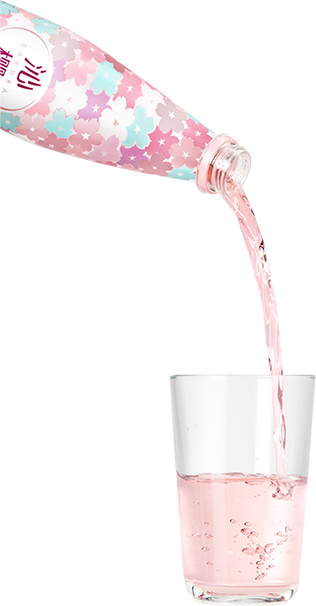
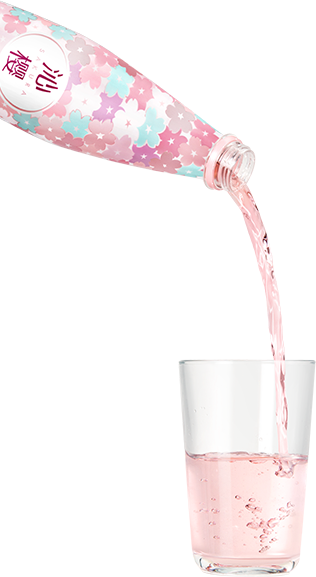
更新图片

diff --git a/src/style/main.less b/src/style/main.less
@@ -150,12 +150,12 @@ body {
 }
 
 .photo {
-    width: 528px;
-    height: 388px;
+    width: 652px;
+    height: 367px;
     top: 470px;
-    left: 123px;
+    left: 49px;
     position: absolute;
-    background-image: url('../assets/img/h5/photo.png');
+    background-image: url('../assets/img/h5/photo.jpg');
     background-size: contain;
     background-repeat: no-repeat;
 }
@@ -166,10 +166,10 @@ body {
 }
 
 .button-play {
-    width: 528px;
-    height: 388px;
+    width: 652px;
+    height: 367px;
     top: 470px;
-    left: 123px;
+    left: 49px;
     position: absolute;
 }
 
@@ -198,10 +198,10 @@ body {
 }
 
 .text1 {
-    width: 350px * 1.1;
-    height: 106px * 1.1;
+    width: 376px;
+    height: 100px;
     top: 880px;
-    left: (750px - 350px * 1.1)/2;
+    left: (750px - 376px)/2;
     position: absolute;
     background-image: url('../assets/img/h5/text-1.png');
     background-size: contain;
@@ -221,7 +221,7 @@ body {
 
 .product {
     width: 316px;
-    height: 606px;
+    height: 577px;
     top: 1319px;
     left: 0;
     position: absolute;

diff --git a/src/js/app/loader.js b/src/js/app/loader.js
@@ -57,6 +57,7 @@ define([
                 { 'src': 'h5/KV-product.png' },
                 { 'src': 'h5/KV-slogan.png' },
                 { 'src': 'h5/photo.png' },
+                { 'src': 'h5/photo.jpg' },
                 { 'src': 'h5/product-group.png' },
                 { 'src': 'h5/product.png' },
                 { 'src': 'h5/qiang.png' },
